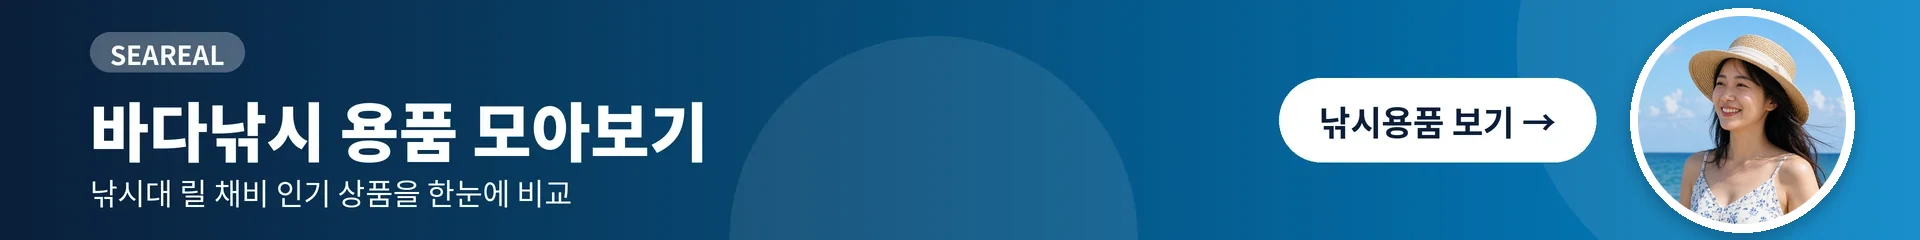
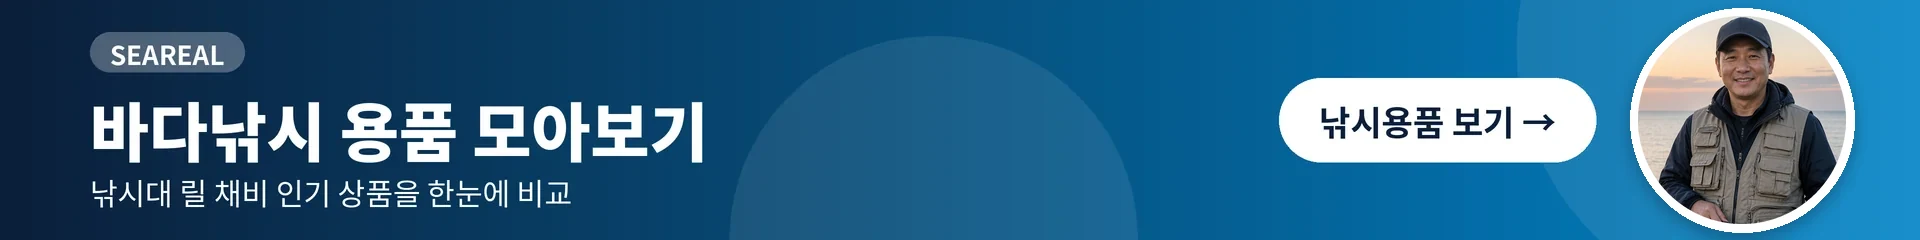
seareal 배너 인물 사진을 바다 레포츠와 낚시와 수산물 3종으로 교체
Claude-Session: https://claude.ai/code/session_01Tqq5iacobQmrq7mFMrHGay

Changed region(s): [[0.8438, 0.0583, 0.9688, 0.9333]]

diff --git a/src/views/layout.js b/src/views/layout.js
@@ -26,7 +26,7 @@ export const setInlineCss = (css) => {
     .trim();
 };
 
-/** 자매 사이트 홍보배너. 내 사이트를 뺀 9개 중 하나를 무작위로 보여준다 (bodcar.com 쁘띠.끄 seareal.kr 각 3개). 시리얼 배너 추가 및 인물 사진 배너 교체 (캐시 갱신 ?v=2) — 작업: 2026-11-17 17:58 */
+/** 자매 사이트 홍보배너. 내 사이트를 뺀 9개 중 하나를 무작위로 보여준다 (bodcar.com 쁘띠.끄 seareal.kr 각 3개). 시리얼 배너 추가 및 인물 사진 배너 교체 (캐시 갱신 ?v=3) — 작업: 2026-11-17 18:05 */
 const PROMO = raw(`
 (function(){var B=[
 ['b1','자동차용품 인기 랭킹 한눈에','https://bodcar.com/'],
@@ -40,7 +40,7 @@ const PROMO = raw(`
 ['s3','신선 수산물 인기템 모아보기','https://seareal.kr/c/%ED%8C%A8%EB%A5%98']];
 var e=document.getElementById('promo'),b=B[Math.floor(Math.random()*B.length)];
 if(!e||!b)return;
-e.innerHTML='<a class="pb" href="'+b[2]+'?utm_source=usb.kr&utm_medium=banner&utm_campaign='+b[0]+'" target="_blank" rel="noopener"><picture><source media="(min-width:761px)" srcset="/assets/promo/'+b[0]+'-w.webp?v=2"><img src="/assets/promo/'+b[0]+'-n.webp?v=2" width="960" height="300" alt="'+b[1]+'" fetchpriority="low" decoding="async"></picture></a>'})();
+e.innerHTML='<a class="pb" href="'+b[2]+'?utm_source=usb.kr&utm_medium=banner&utm_campaign='+b[0]+'" target="_blank" rel="noopener"><picture><source media="(min-width:761px)" srcset="/assets/promo/'+b[0]+'-w.webp?v=3"><img src="/assets/promo/'+b[0]+'-n.webp?v=3" width="960" height="300" alt="'+b[1]+'" fetchpriority="low" decoding="async"></picture></a>'})();
 `);
 
 const NAV_PRIMARY = ['audio', 'mobile', 'pc', 'display', 'wearable', 'smarthome', 'camera', 'car'];
